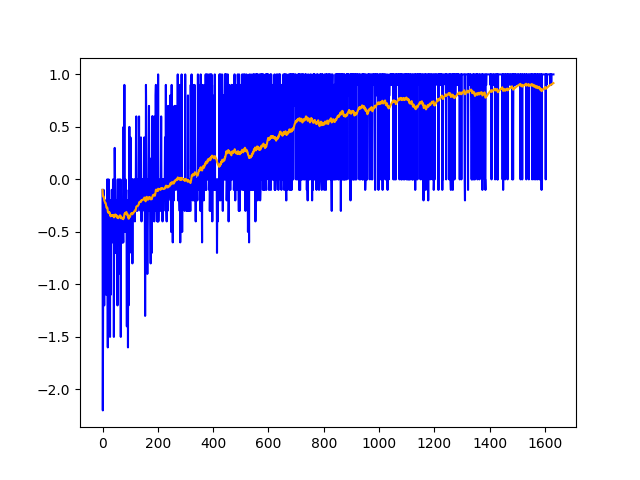
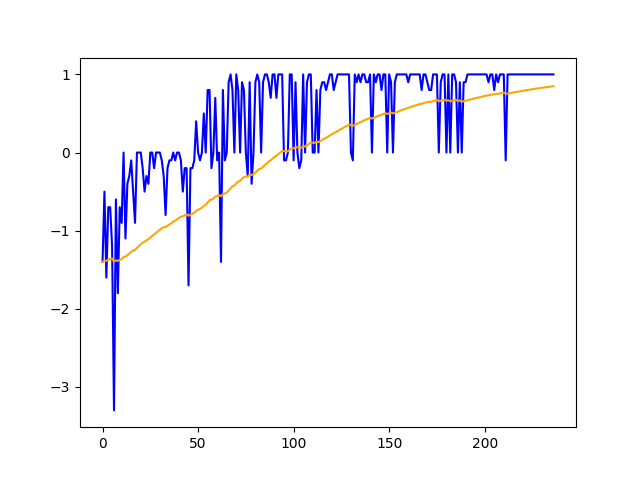
tuned parameters

diff --git a/FrozenLake8x8/ddqn.py b/FrozenLake8x8/ddqn.py
@@ -56,7 +56,7 @@ class DoubleDQNAgent:
             self.epsilon = 0.0
         else:
             self.epsilon = 1.0
-        self.epsilon_decay = 0.9999
+        self.epsilon_decay = 0.9995
         self.epsilon_min = 0.01
         self.batch_size = 64
         self.train_start = 500
@@ -76,7 +76,7 @@ class DoubleDQNAgent:
     def _build_model(self):
         model = Sequential()
         #model.add(Dense(45, input_dim=self.state_size, activation='relu', kernel_initializer='glorot_uniform'))
-        model.add(Conv2D(filters=16, kernel_size=(2, 2), strides=(1, 1), activation='relu', input_shape=(8, 8, 1), kernel_initializer='glorot_uniform'))
+        model.add(Conv2D(filters=16, kernel_size=(2, 2), strides=(1, 1), activation='relu', input_shape=self.state_size, kernel_initializer='glorot_uniform'))
         model.add(Conv2D(filters=32, kernel_size=(2, 2), strides=(1, 1), activation='relu', padding='same', kernel_initializer='glorot_uniform'))
         model.add(Reshape(target_shape=(1, 1568)))
         #model.add(Dense(52, activation='relu', kernel_initializer='glorot_uniform'))
@@ -180,10 +180,10 @@ if __name__ == "__main__":
         done = False
         score = 0
         state = env.reset()
-        row, col = state%8, int(np.floor(state/8))
+        row, col = state%state_size[0], int(np.floor(state/state_size[1]))
         state = MAP.copy()
         state[row, col] = 10.0
-        state = np.reshape(state, newshape=(1, 8, 8, 1))
+        state = np.reshape(state, newshape=(1, state_size[0], state_size[1], state_size[2]))
 
         if LOAD:
             agent.load_model("./FrozenLake_DoubleDQN.h5")
@@ -196,10 +196,10 @@ if __name__ == "__main__":
             action = agent.get_action(state)
             next_state, reward, done, info = env.step(action)
 
-            next_row, next_col = next_state%8, int(np.floor(next_state/8))
+            next_row, next_col = next_state%state_size[0], int(np.floor(next_state/state_size[0]))
             next_state = MAP.copy()
             next_state[next_row, next_col] = 10.0
-            next_state = np.reshape(next_state, newshape=(1, 8, 8, 1))
+            next_state = np.reshape(next_state, newshape=(1, state_size[0], state_size[1], state_size[2]))
 
             if np.array_equal(state, next_state): # if it tried to go off the map
                 reward += -0.1
@@ -236,7 +236,7 @@ if __name__ == "__main__":
 
                     qvals = agent.get_qvals(WALKABLE)
                     dir_map.save_map(positions=MAP_IDS, qvalues=qvals, \
-                                    map_dim=(8, 8), name='FrozenLake_DoubleDQN_' + str(e))
+                                    map_dim=(state_size[0], state_size[1]), name='FrozenLake_DoubleDQN_' + str(e))
                     time.sleep(1)   # Delays for 1 second
                     sys.exit()
 
@@ -246,10 +246,10 @@ if __name__ == "__main__":
 
             qvals = agent.get_qvals(WALKABLE)
             dir_map.save_map(positions=MAP_IDS, qvalues=qvals, \
-                            map_dim=(8, 8), name='FrozenLake_DoubleDQN_' + str(e))
+                            map_dim=(state_size[0], state_size[1]), name='FrozenLake_DoubleDQN_' + str(e))
 
     agent.save_model("./FrozenLake_DoubleDQN.h5")
 
     qvals = agent.get_qvals(WALKABLE)
     dir_map.save_map(positions=MAP_IDS, qvalues=qvals, \
-                    map_dim=(8, 8), name='FrozenLake_DoubleDQN_' + str(e))
+                    map_dim=(state_size[0], state_size[1]), name='FrozenLake_DoubleDQN_' + str(e))
